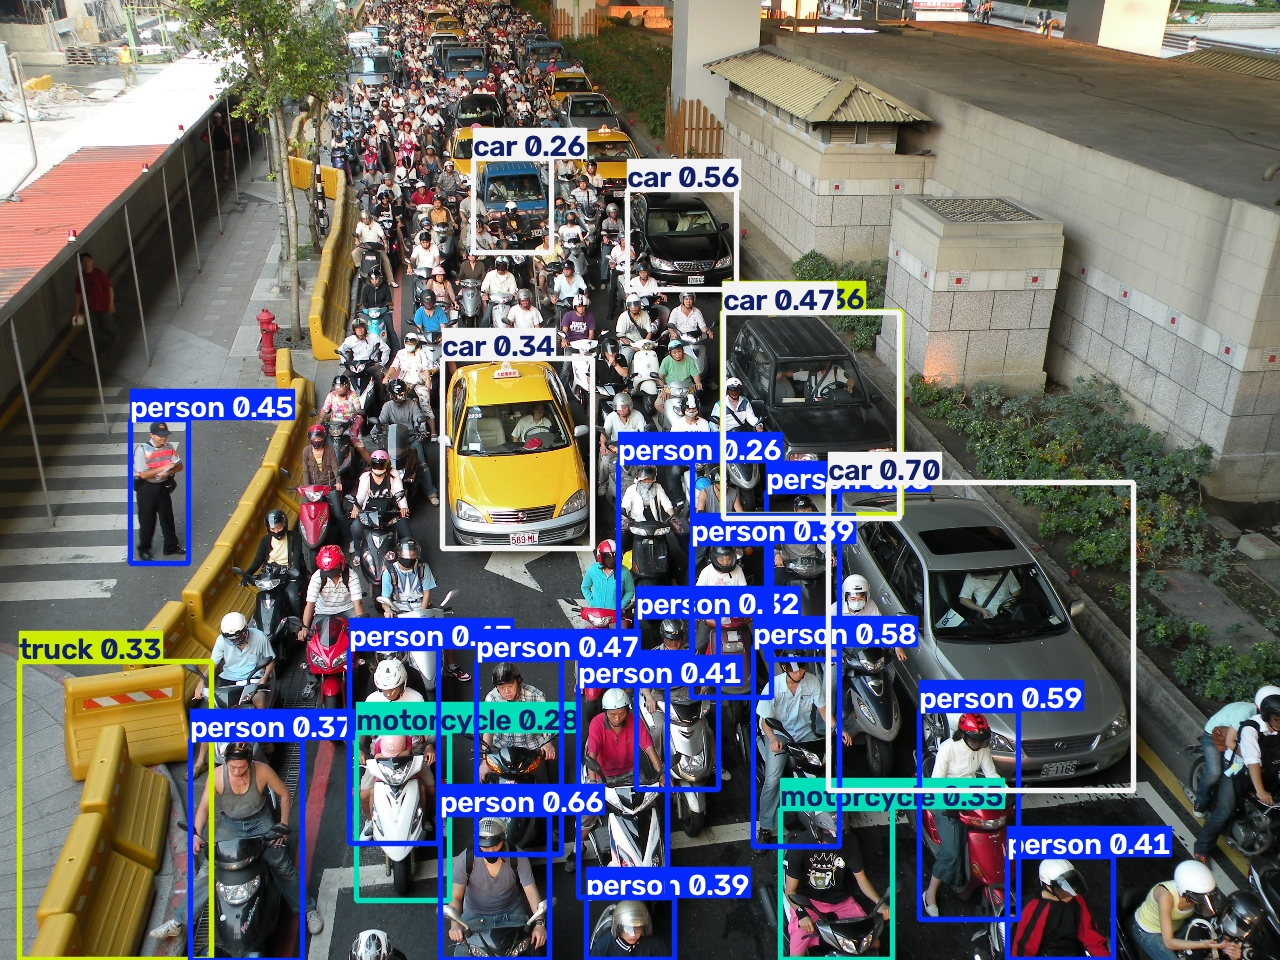
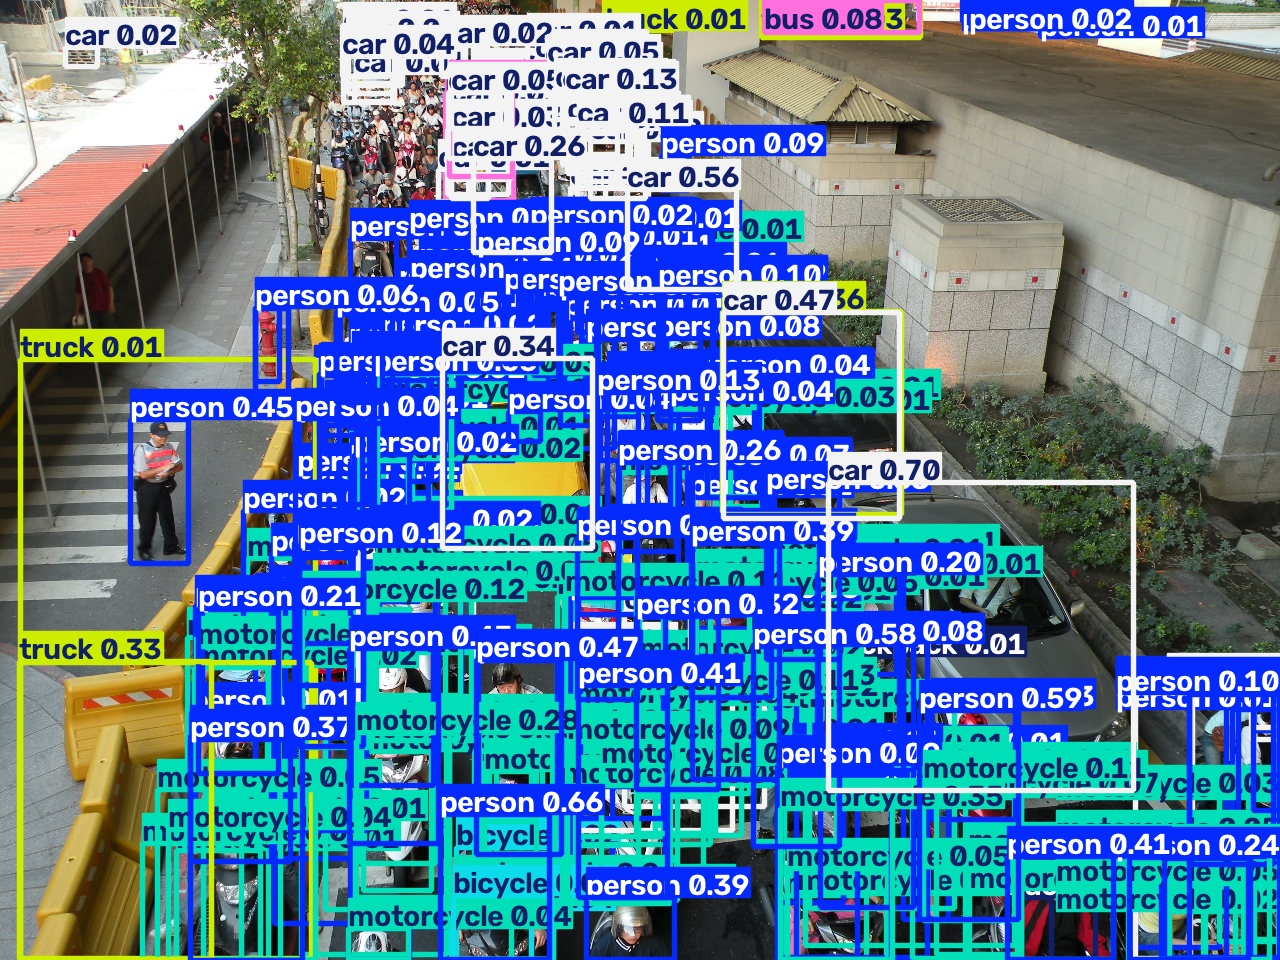
20261104

diff --git a/20261104/우수상품선발.py b/20261104/우수상품선발.py
@@ -1,0 +1,47 @@
+# 온라인 쇼핑몰에서 판매 중인 상품들의 가격 순위와 판매 가능 여부가 주어집니다.
+
+# 다음 조건에 맞게 상품 2개를 선발하는 solution() 함수를 작성하세요.
+
+# 조건
+# 1. 상품 순위가 높은 순서대로 탐색합니다.
+# 2. 판매 가능한 상품만 선발합니다.
+# 3. 단, 상품 가격이 25,000원 이하인 상품만 선발할 수 있습니다.
+# 4. 조건을 만족하는 상품 중 상위 2개를 선발합니다.
+# 5. 선발된 상품의 번호를 순서대로 리스트에 담아 반환합니다.
+# 6. 2개를 선발하면 탐색을 종료합니다.
+
+# 예상 반환값
+# [3, 4]
+
+# 이번에도 힌트는 없어!
+
+# 입력 데이터
+rank = [4, 2, 5, 1, 3, 6]
+attendance = [True, False, True, True, True, False]
+price = [30000, 15000, 50000, 10000, 25000, 40000]
+
+# 첫번째 풀이
+def solution(rank, attendance, price):
+    selected = []
+    for r in range(1, len(rank)+1):
+        idx = rank.index(r) 
+        if attendance[idx] and price[idx] <= 25000:
+            selected.append(idx)
+        if len(selected) == 2:
+            break
+    return selected
+
+#두번째 풀이
+def solution2(rank, attendance, price):
+    rank_dict = {
+        r : idx 
+        for idx, r in enumerate(rank)
+    }
+    selected = []
+    for r in range(1, len(rank)+1):
+        idx = rank_dict[r]
+        if attendance[idx] and price[idx] <= 25000:
+            selected.append(idx)
+        if len(selected) == 2:
+            break
+    return selected

diff --git a/20261104/우수사원선발.py b/20261104/우수사원선발.py
@@ -1,0 +1,33 @@
+# 회사에서 직원 6명의 업무 평가 순위가 주어졌습니다.
+
+# 다음 조건에 따라 우수 사원 3명을 선발하는 함수를 작성하세요.
+
+# 조건
+# 1. 참여 가능한 직원 중 평가 순위가 높은 3명을 선발합니다.
+# 2. 선발된 직원의 번호를 순위가 높은 순서대로 리스트에 저장합니다.
+# 3. 직원 번호는 0번부터 시작합니다.
+# 4. 최종 결과는 리스트로 반환합니다.
+
+# 예상 반환값
+# [3, 4, 0]
+
+# 입력 데이터
+rank = [5, 2, 6, 1, 4, 3]
+attendance = [True, False, True, True, True, False]
+
+def solution(rank, attendance):
+    rank_dict = {r: i for i, r in enumerate(rank)}
+
+    selected = []
+
+    for r in range(1, len(rank)+1):
+        idx = rank_dict[r]
+        if attendance[idx]:
+            selected.append(idx)
+        if len(selected) == 3:
+            break
+    return selected
+    
+
+
+

diff --git a/20261104/문자열나누기02.py b/20261104/문자열나누기02.py
@@ -1,0 +1,16 @@
+# 문자열 myStr이 주어집니다.
+
+# 문자 "0"과 "1"을 구분자로 사용하여 문자열을 나누고, 나눠진 문자열 중 길이가 2 이상인 문자열만 순서대로 저장한 배열을 반환하세요.
+
+# 단, 결과가 빈 배열이라면 ["EMPTY"]를 반환합니다.
+# myStr = "a0bc1d00efg1h"
+
+# 기대 결과:
+# ["bc", "efg"]
+
+# 이번에는 replace()를 사용하지 않고, split()의 구분자 기능을 직접 활용해 봐!
+
+import re
+def solution(myStr):
+    result = [s for s in re.split(r"[01]",myStr) if len(s)>=2]
+    return result if result else ["EMPTY"]
